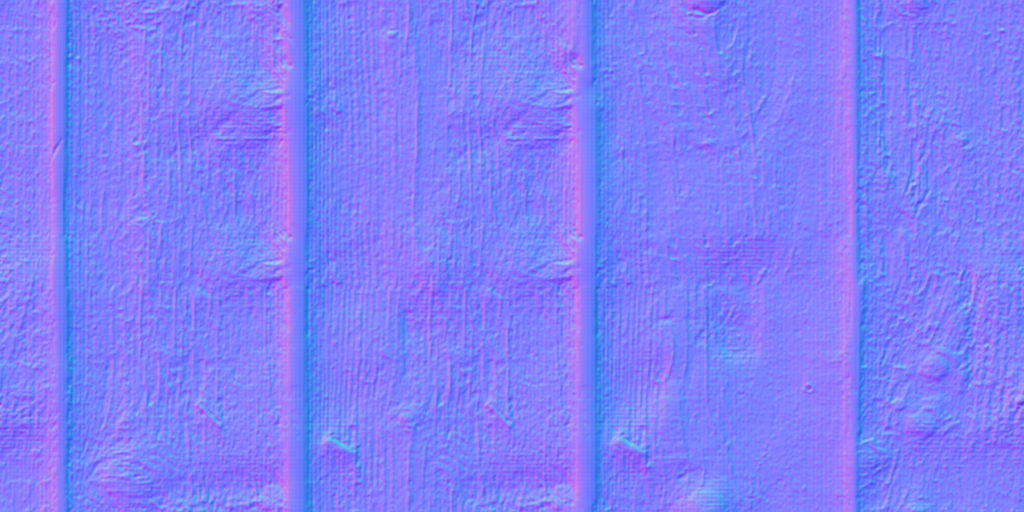
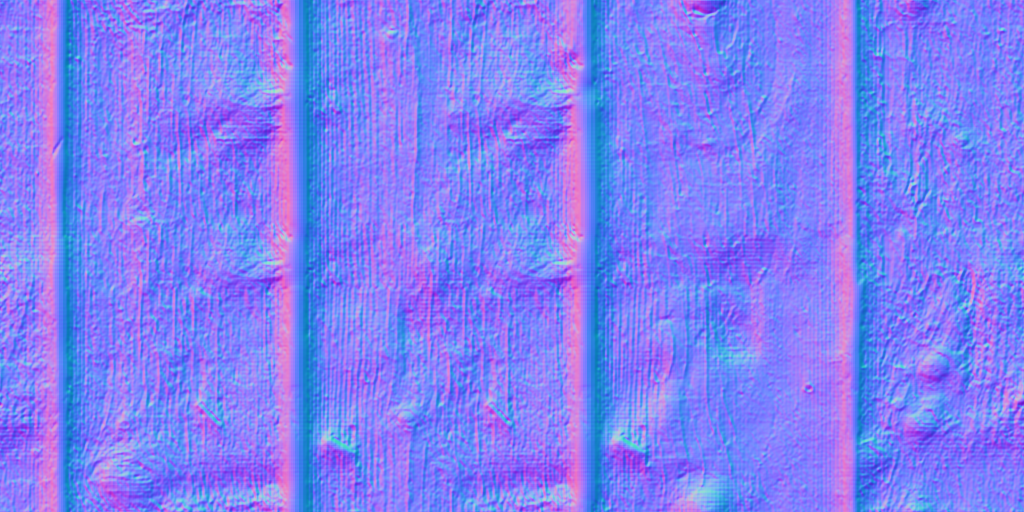
Normal mapping working with Gouraud

diff --git a/TP3/reader/primitives/MyTable.js b/TP3/reader/primitives/MyTable.js
@@ -14,27 +14,32 @@ function MyTable(scene, length_s, length_t) {
     this.topSizeS = 1 / Math.floor(this.length_s);
     this.topSizeT = 1 / Math.floor(this.length_s);
 
-    this.square = new MyPlane(scene, 1, 1, 20, 20);
-
-	/*this.normalMap = new CGFtexture(this.scene, "resources/normal_maps/rough_wood_low_res.png");
-
+    this.square = new MyPlane(scene, 1, 1, 300, 150);
+	this.normalMap = new CGFtexture(this.scene, "resources/normal_maps/rough_wood.png");
 
     //Creates the shader
-	this.shader = new CGFshader(this.scene.gl, "shaders/normalMap.vert");
-	this.setValuesShader();*/
+	this.shader = new CGFshader(this.scene.gl, "shaders/normal_map-vertex.glsl", "shaders/normal_map-fragment.glsl");
+	this.setValuesShader();
 };
 
 MyTable.prototype = Object.create(CGFobject.prototype);
 MyTable.prototype.constructor=MyTable;
 
 MyTable.prototype.setValuesShader = function() {
-	/*this.shader.setUniformsValues({normaMap: this.normalMap});
-    this.shader.setUniformsValues({sizeS: this.topSizeS});
+	this.shader.setUniformsValues({normalMap: this.normalMap});
+    /* this.shader.setUniformsValues({sizeS: this.topSizeS});
     this.shader.setUniformsValues({sizeT: this.topSizeT});*/
 }
 
-MyTable.prototype.displayTop = function() {
+MyTable.prototype.displayTop = function() { 
+
+    this.scene.pushMatrix();
     //this.scene.setActiveShader(this.shader);
+    this.scene.translate(0, 0, topH / 2);  
+    this.square.display();
+    //this.scene.setActiveShader(this.scene.defaultShader);
+    this.scene.popMatrix();
+    /*
     for( var i = 0; i < 1.0; i += this.topSizeS ) {
         for( var j = 0; j < 1.0; j += this.topSizeT ) {
             this.scene.pushMatrix();
@@ -43,8 +48,8 @@ MyTable.prototype.displayTop = function() {
             this.square.display();
             this.scene.popMatrix();
         }
-    }    
-    //this.scene.setActiveShader(this.scene.defaultShader);
+    }
+    */
     
     for( var i = 0; i < 1.0; i += this.topSizeS ) {
         for( var j = 0; j < 1.0; j += this.topSizeT ) {
@@ -132,14 +137,14 @@ MyTable.prototype.displayLeg = function() {
 MyTable.prototype.display = function() {
     this.scene.pushMatrix();
     this.displayTop();
-    this.scene.translate(0.35, 0.35, (-legH / 2) - (topH / 2));
+    /*this.scene.translate(0.35, 0.35, (-legH / 2) - (topH / 2));
     this.displayLeg();
     this.scene.translate(-0.7, 0, 0);
     this.displayLeg();
     this.scene.translate(0, -0.7, 0);
     this.displayLeg();
     this.scene.translate(0.7, 0, 0);
-    this.displayLeg();
+    this.displayLeg();*/
     this.scene.popMatrix();
 }
 

diff --git a/TP3/reader/app/XMLscene.js b/TP3/reader/app/XMLscene.js
@@ -47,8 +47,8 @@ XMLscene.prototype.init = function (application) {
 
 	this.material3 = new CGFappearance(this);
     this.material3.setAmbient(0.1, 0.1, 0.1, 1);
-    this.material3.setDiffuse(0.8, 0.8, 0.8, 1);
-    this.material3.setSpecular(0, 0, 0, 1);    
+    this.material3.setDiffuse(0.6, 0.6, 0.61, 1);
+    this.material3.setSpecular(0.4, 0.4, 0.4, 1);    
     this.material3.setShininess(1);
     this.material3.setTextureWrap('REPEAT', 'REPEAT');
     this.material3.setTexture(new CGFtexture(this, "resources/rough_wood.png"));
@@ -140,12 +140,12 @@ XMLscene.prototype.display = function () {
 				this.lights[i].update();
 			//this.graph.graph.drawScene();
 			this.pushMatrix();
-			this.scale(18, 18, 18);
-			this.translate(0, 0, -0.025);
+			this.scale(2, 1, 1);
+			//this.translate(0, 0, -0.025);
 			this.material3.apply();
 			this.table.display();
 			this.popMatrix();
-			this.game.display();
+			//this.game.display();
 		}
 	}
 	else
